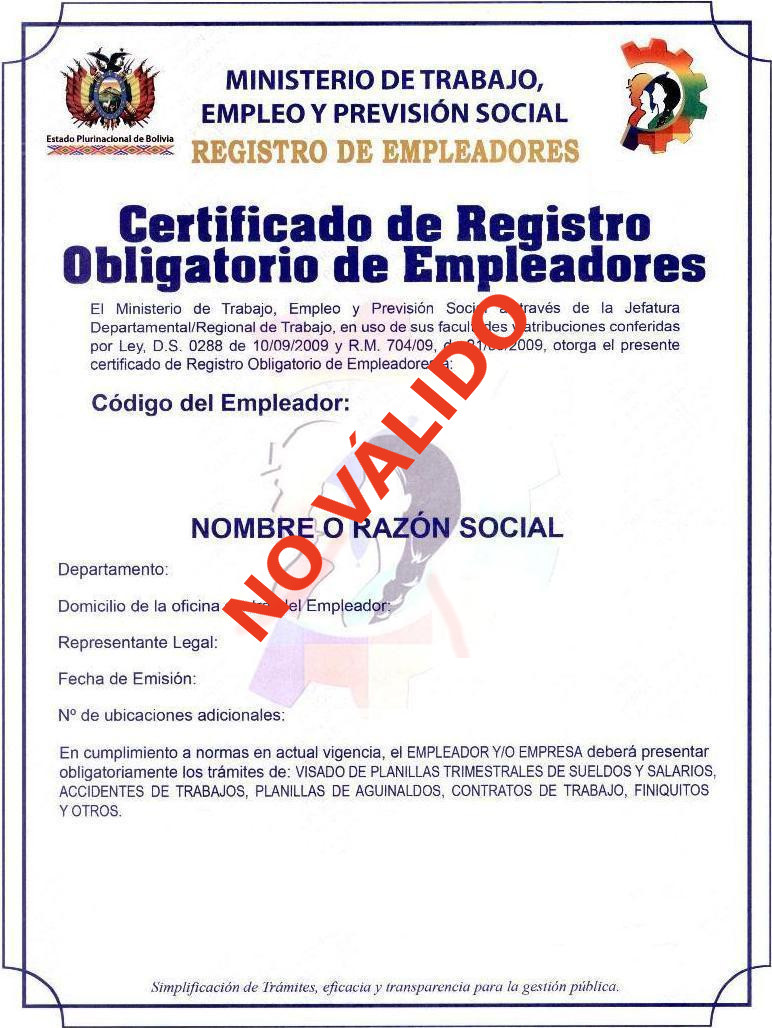
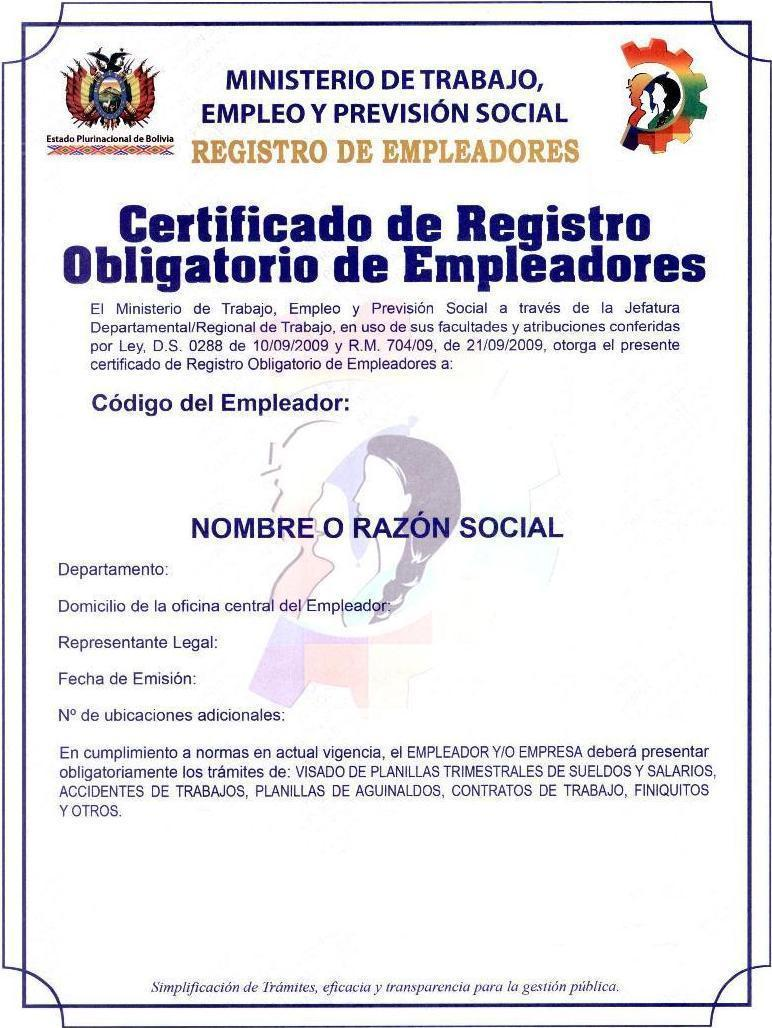
correcciones en roe

Changed region(s): [[0.4041, 0.2802, 0.6839, 0.5292], [0.2798, 0.4981, 0.4352, 0.6226]]

diff --git a/src/main/java/bo/gob/mintrabajo/ovt/bean/EscritorioBean.java b/src/main/java/bo/gob/mintrabajo/ovt/bean/EscritorioBean.java
@@ -250,14 +250,14 @@ public class EscritorioBean {
                 Calendar cal = Calendar.getInstance();
                 cal.setTime(docPlanilla.getFechaOperacion());
                 parametros.put("diaDeposito", cal.get(Calendar.DAY_OF_MONTH));
-                int mes1=Integer.valueOf(cal.get(Calendar.MONTH));
-                parametros.put("mesDeposito", mes1+1);
+                int mes1 = Integer.valueOf(cal.get(Calendar.MONTH));
+                parametros.put("mesDeposito", mes1 + 1);
                 parametros.put("anioDeposito", cal.get(Calendar.YEAR));
                 cal = Calendar.getInstance();
                 cal.setTime(docDocumento.getFechaDocumento());
                 parametros.put("diaFechaPresentacion", cal.get(Calendar.DAY_OF_MONTH));
-                int mes2=Integer.valueOf(cal.get(Calendar.MONTH));
-                parametros.put("mesFechaPresentacion", mes2+1);
+                int mes2 = Integer.valueOf(cal.get(Calendar.MONTH));
+                parametros.put("mesFechaPresentacion", mes2 + 1);
                 parametros.put("anioFechaPresentacion", cal.get(Calendar.YEAR));
                 parametros.put("montoDeposito", docPlanilla.getMontoOperacion());
                 parametros.put("nroComprobante", docPlanilla.getNumOperacion());
@@ -273,7 +273,7 @@ public class EscritorioBean {
                 parametros.put("escudoBolivia", servletContext.getRealPath("/") + "/images/escudo.jpg");
                 parametros.put("logo", servletContext.getRealPath("/") + "/images/logoMIN.jpg");
 
-                String nombrePdf = codDocumento+"-".concat(Util.encriptaMD5(String.valueOf(idUsuarioEmpleador).concat(String.valueOf(idPersonaPorDocumento)))) + ".pdf";
+                String nombrePdf = codDocumento + "-".concat(Util.encriptaMD5(String.valueOf(idUsuarioEmpleador).concat(String.valueOf(idPersonaPorDocumento)))) + ".pdf";
 
                 redirecionarReporte(iDocumentoService.generateReport(nombrePdf, "/reportes/formularioLC1010V1.jasper", parametros));
                 verificaReporte = true;
@@ -299,9 +299,13 @@ public class EscritorioBean {
             parametros.put("repLegal", vperPersona.getRlNombre());
             parametros.put("fechaEmision", (new SimpleDateFormat("dd/MM/yyyy")).format(new Date()));
             parametros.put("nroUbicaciones", vperPersona.getNroOtro());
+            if (esInterno) {
+                parametros.put("roe", servletContext.getRealPath("/") + "/images/roe.jpg");
+            } else {
+                parametros.put("roe", servletContext.getRealPath("/") + "/images/roeInvalido.jpg");
+            }
+            //parametros.put("roe", servletContext.getRealPath("/") + "/images/roe.jpg");
 
-
-            parametros.put("roe", servletContext.getRealPath("/") + "/images/roe.jpg");
 
             try {
                 String nombrePdf = codDocumento.concat(Util.encriptaMD5(String.valueOf(idUsuarioEmpleador).concat(String.valueOf(idPersonaPorDocumento)))) + ".pdf";
@@ -356,8 +360,8 @@ public class EscritorioBean {
                 Calendar cal = Calendar.getInstance();
                 cal.setTime(docDocumento.getFechaDocumento());
                 parametros.put("diaFechaPresentacion", cal.get(Calendar.DAY_OF_MONTH));
-                int mes1=Integer.valueOf(cal.get(Calendar.MONTH));
-                parametros.put("mesFechaPresentacion", mes1+1);
+                int mes1 = Integer.valueOf(cal.get(Calendar.MONTH));
+                parametros.put("mesFechaPresentacion", mes1 + 1);
                 parametros.put("anioFechaPresentacion", cal.get(Calendar.YEAR));
                 parametros.put("nombreEmpleador", vperPersona.getRlNombre());
                 parametros.put("nroDocumento", vperPersona.getRlNroIdentidad());
@@ -385,7 +389,7 @@ public class EscritorioBean {
                     parametros.put("bajaSeguroLargoPlazo", "");
                 }
                 parametros.put("nombreFuncionario", docGenerico.getCadena10());
-                String nombrePdf = codDocumento+"-".concat(Util.encriptaMD5(String.valueOf(idUsuarioEmpleador).concat(String.valueOf(idPersonaPorDocumento)))) + ".pdf";
+                String nombrePdf = codDocumento + "-".concat(Util.encriptaMD5(String.valueOf(idUsuarioEmpleador).concat(String.valueOf(idPersonaPorDocumento)))) + ".pdf";
                 redirecionarReporte(iDocumentoService.generateReport(nombrePdf, "/reportes/roe012.jasper", parametros));
                 verificaReporte = true;
             } catch (Exception e) {
@@ -419,8 +423,8 @@ public class EscritorioBean {
                 Calendar cal = Calendar.getInstance();
                 cal.setTime(docDocumento.getFechaDocumento());
                 parametros.put("diaFechaPresentacion", cal.get(Calendar.DAY_OF_MONTH));
-                int mes1=Integer.valueOf(cal.get(Calendar.MONTH));
-                parametros.put("mesFechaPresentacion", mes1+1);
+                int mes1 = Integer.valueOf(cal.get(Calendar.MONTH));
+                parametros.put("mesFechaPresentacion", mes1 + 1);
                 parametros.put("anioFechaPresentacion", cal.get(Calendar.YEAR));
                 parametros.put("nombreEmpleador", vperPersona.getRlNombre());
                 parametros.put("nroDocumento", vperPersona.getRlNroIdentidad());
@@ -439,7 +443,7 @@ public class EscritorioBean {
                 String cadena4 = docGenerico.getValor01() != null ? (df.format(docGenerico.getValor01())) : "SIN MOVIMIENTO";
                 parametros.put("cadena4", cadena4);
 
-                String nombrePdf = codDocumento+"-".concat(Util.encriptaMD5(String.valueOf(idUsuarioEmpleador).concat(String.valueOf(idPersonaPorDocumento)))) + ".pdf";
+                String nombrePdf = codDocumento + "-".concat(Util.encriptaMD5(String.valueOf(idUsuarioEmpleador).concat(String.valueOf(idPersonaPorDocumento)))) + ".pdf";
                 redirecionarReporte(iDocumentoService.generateReport(nombrePdf, "/reportes/roe013.jasper", parametros));
                 verificaReporte = true;
             } catch (Exception e) {
@@ -495,15 +499,15 @@ public class EscritorioBean {
                 Calendar cal = Calendar.getInstance();
                 cal.setTime(docPlanilla.getFechaOperacion());
                 parametros.put("diaDeposito", cal.get(Calendar.DAY_OF_MONTH));
-                int mes1=Integer.valueOf(cal.get(Calendar.MONTH));
-                parametros.put("mesDeposito", mes1+1);
+                int mes1 = Integer.valueOf(cal.get(Calendar.MONTH));
+                parametros.put("mesDeposito", mes1 + 1);
                 parametros.put("anioDeposito", cal.get(Calendar.YEAR));
                 cal = Calendar.getInstance();
                 cal.setTime(docDocumento.getFechaDocumento());
                 parametros.put("diaFechaPresentacion", cal.get(Calendar.DAY_OF_MONTH));
 //                cal.add(Calendar.MONTH, 1);
-                int mes2=Integer.valueOf(cal.get(Calendar.MONTH));
-                parametros.put("mesFechaPresentacion", mes2+1);
+                int mes2 = Integer.valueOf(cal.get(Calendar.MONTH));
+                parametros.put("mesFechaPresentacion", mes2 + 1);
                 parametros.put("anioFechaPresentacion", cal.get(Calendar.YEAR));
                 parametros.put("montoDeposito", docPlanilla.getMontoOperacion());
                 parametros.put("nroComprobante", docPlanilla.getNumOperacion());
@@ -516,7 +520,7 @@ public class EscritorioBean {
                 parametros.put("escudoBolivia", servletContext.getRealPath("/") + "/images/escudo.jpg");
                 parametros.put("logo", servletContext.getRealPath("/") + "/images/logoMIN.jpg");
 
-                String nombrePdf = codDocumento+"-".concat(Util.encriptaMD5(String.valueOf(idUsuarioEmpleador).concat(String.valueOf(idPersonaPorDocumento)))) + ".pdf";
+                String nombrePdf = codDocumento + "-".concat(Util.encriptaMD5(String.valueOf(idUsuarioEmpleador).concat(String.valueOf(idPersonaPorDocumento)))) + ".pdf";
 
                 redirecionarReporte(iDocumentoService.generateReport(nombrePdf, "/reportes/formularioLC2010V1.jasper", parametros));
                 verificaReporte = true;
@@ -534,86 +538,87 @@ public class EscritorioBean {
 
 
     /**
-     *  Genera un nombre para archivo PDF.
-     *  Este nombre esta compuesto del nombreRazonSocial, la fecha
-     *  y un randomico de dos dígitos.
+     * Genera un nombre para archivo PDF.
+     * Este nombre esta compuesto del nombreRazonSocial, la fecha
+     * y un randomico de dos dígitos.
      */
-    static String generarNombreReporte(String nombreRazonSocial){
-        String nombreArchivo="";
-        SimpleDateFormat sdf=new SimpleDateFormat("ddMMyyyyHHmmss");
-        Date fecha=new Date();
-        Random num=new Random();
-        String nu=String.valueOf(num.nextInt(2));
-        nombreArchivo=sdf.format(fecha).toString()+nu;
-        nombreArchivo="declaracionJurada-"+nombreRazonSocial+nombreArchivo+".pdf";
+    static String generarNombreReporte(String nombreRazonSocial) {
+        String nombreArchivo = "";
+        SimpleDateFormat sdf = new SimpleDateFormat("ddMMyyyyHHmmss");
+        Date fecha = new Date();
+        Random num = new Random();
+        String nu = String.valueOf(num.nextInt(2));
+        nombreArchivo = sdf.format(fecha).toString() + nu;
+        nombreArchivo = "declaracionJurada-" + nombreRazonSocial + nombreArchivo + ".pdf";
         return nombreArchivo;
     }
+
     /*
     *  GENERA EL REPORTE DE LA DECLARACION JURADA
      */
-    public void generarReporte(){
+    public void generarReporte() {
 
 
-        ServletContext servletContext=(ServletContext)FacesContext.getCurrentInstance().getExternalContext().getContext();
-        String rutaWebApp=servletContext.getRealPath("/");
+        ServletContext servletContext = (ServletContext) FacesContext.getCurrentInstance().getExternalContext().getContext();
+        String rutaWebApp = servletContext.getRealPath("/");
 
-        String jrxmlFileName=rutaWebApp+"/reportes/declaracionJurada.jrxml";
-        String jasperFileName=rutaWebApp+"/reportes/declaracionJurada.jasper";
-        String pdfFileName="";
+        String jrxmlFileName = rutaWebApp + "/reportes/declaracionJurada.jrxml";
+        String jasperFileName = rutaWebApp + "/reportes/declaracionJurada.jasper";
+        String pdfFileName = "";
 
-        String dbUrl="jdbc:oracle:thin:@192.168.50.7:1521:desa";
-        String dbDriver="oracle.jdbc.driver.OracleDriver";
-        String dbUname="ovt";
-        String dbPwd="prueba";
+        String dbUrl = "jdbc:oracle:thin:@192.168.50.7:1521:desa";
+        String dbDriver = "oracle.jdbc.driver.OracleDriver";
+        String dbUname = "ovt";
+        String dbPwd = "prueba";
 
-        Connection conn=null;
+        Connection conn = null;
 
 
-        String idPersona=(String)session.getAttribute("idEmpleador");
-        PerPersona p=iPersonaService.findById(idPersona);
-        pdfFileName=generarNombreReporte(p.getNombreRazonSocial());
+        String idPersona = (String) session.getAttribute("idEmpleador");
+        PerPersona p = iPersonaService.findById(idPersona);
+        pdfFileName = generarNombreReporte(p.getNombreRazonSocial());
 
-        try{
+        try {
             Class.forName(dbDriver);
-        }catch(ClassNotFoundException e){
+        } catch (ClassNotFoundException e) {
             logger.error("ORACLE JDBC Driver no encontrado");
         }
 
-        try{
+        try {
             //conn= DriverManager.getConnection(dbUrl, dbUname, dbPwd);
-            conn=Util.obtenerDatasource().getConnection();
-        }catch (SQLException e){
-            logger.error("Error de conexion "+e.getMessage());
+            conn = Util.obtenerDatasource().getConnection();
+        } catch (SQLException e) {
+            logger.error("Error de conexion " + e.getMessage());
         }
 
-        try{
-            String rutaEscudoIzquierda=rutaWebApp+"/images/escudo.jpg";
-            String rutaEscudoDerecha=rutaWebApp+"/images/escudo.jpg";
+        try {
+            String rutaEscudoIzquierda = rutaWebApp + "/images/escudo.jpg";
+            String rutaEscudoDerecha = rutaWebApp + "/images/escudo.jpg";
             // Paramatros para el reporte
-            HashMap hm=new HashMap();
-            hm.put("idPersona",idPersona);
+            HashMap hm = new HashMap();
+            hm.put("idPersona", idPersona);
 
-            hm.put("escudoIzquierda",rutaEscudoIzquierda);
-            hm.put("escudoDerecha",rutaEscudoDerecha);
+            hm.put("escudoIzquierda", rutaEscudoIzquierda);
+            hm.put("escudoDerecha", rutaEscudoDerecha);
 
-            long nroUnidades=0;
-            if(iUnidadService.buscarPorPersona(idPersona)!=null){
-                nroUnidades= iUnidadService.buscarPorPersona(idPersona).size();
+            long nroUnidades = 0;
+            if (iUnidadService.buscarPorPersona(idPersona) != null) {
+                nroUnidades = iUnidadService.buscarPorPersona(idPersona).size();
             }
-            hm.put("nro_unidades",nroUnidades);
+            hm.put("nro_unidades", nroUnidades);
 
 
             JasperCompileManager.compileReportToFile(jrxmlFileName, jasperFileName);
 
-            String rutaPdf="/reportes/temp/"+pdfFileName;
-            String nombrePdf=rutaWebApp+rutaPdf;
+            String rutaPdf = "/reportes/temp/" + pdfFileName;
+            String nombrePdf = rutaWebApp + rutaPdf;
 
-            JasperPrint jprint=(JasperPrint) JasperFillManager.fillReport(jasperFileName, hm, conn);
+            JasperPrint jprint = (JasperPrint) JasperFillManager.fillReport(jasperFileName, hm, conn);
             JasperExportManager.exportReportToPdfFile(jprint, nombrePdf);
 
             redirecionarReporte(nombrePdf);
 
-        }catch (Exception ex){
+        } catch (Exception ex) {
             logger.error("====>>>> Error al exportar el reporte a PDF <<<<<=====");
             logger.error(ex.getMessage());
             ex.printStackTrace();
